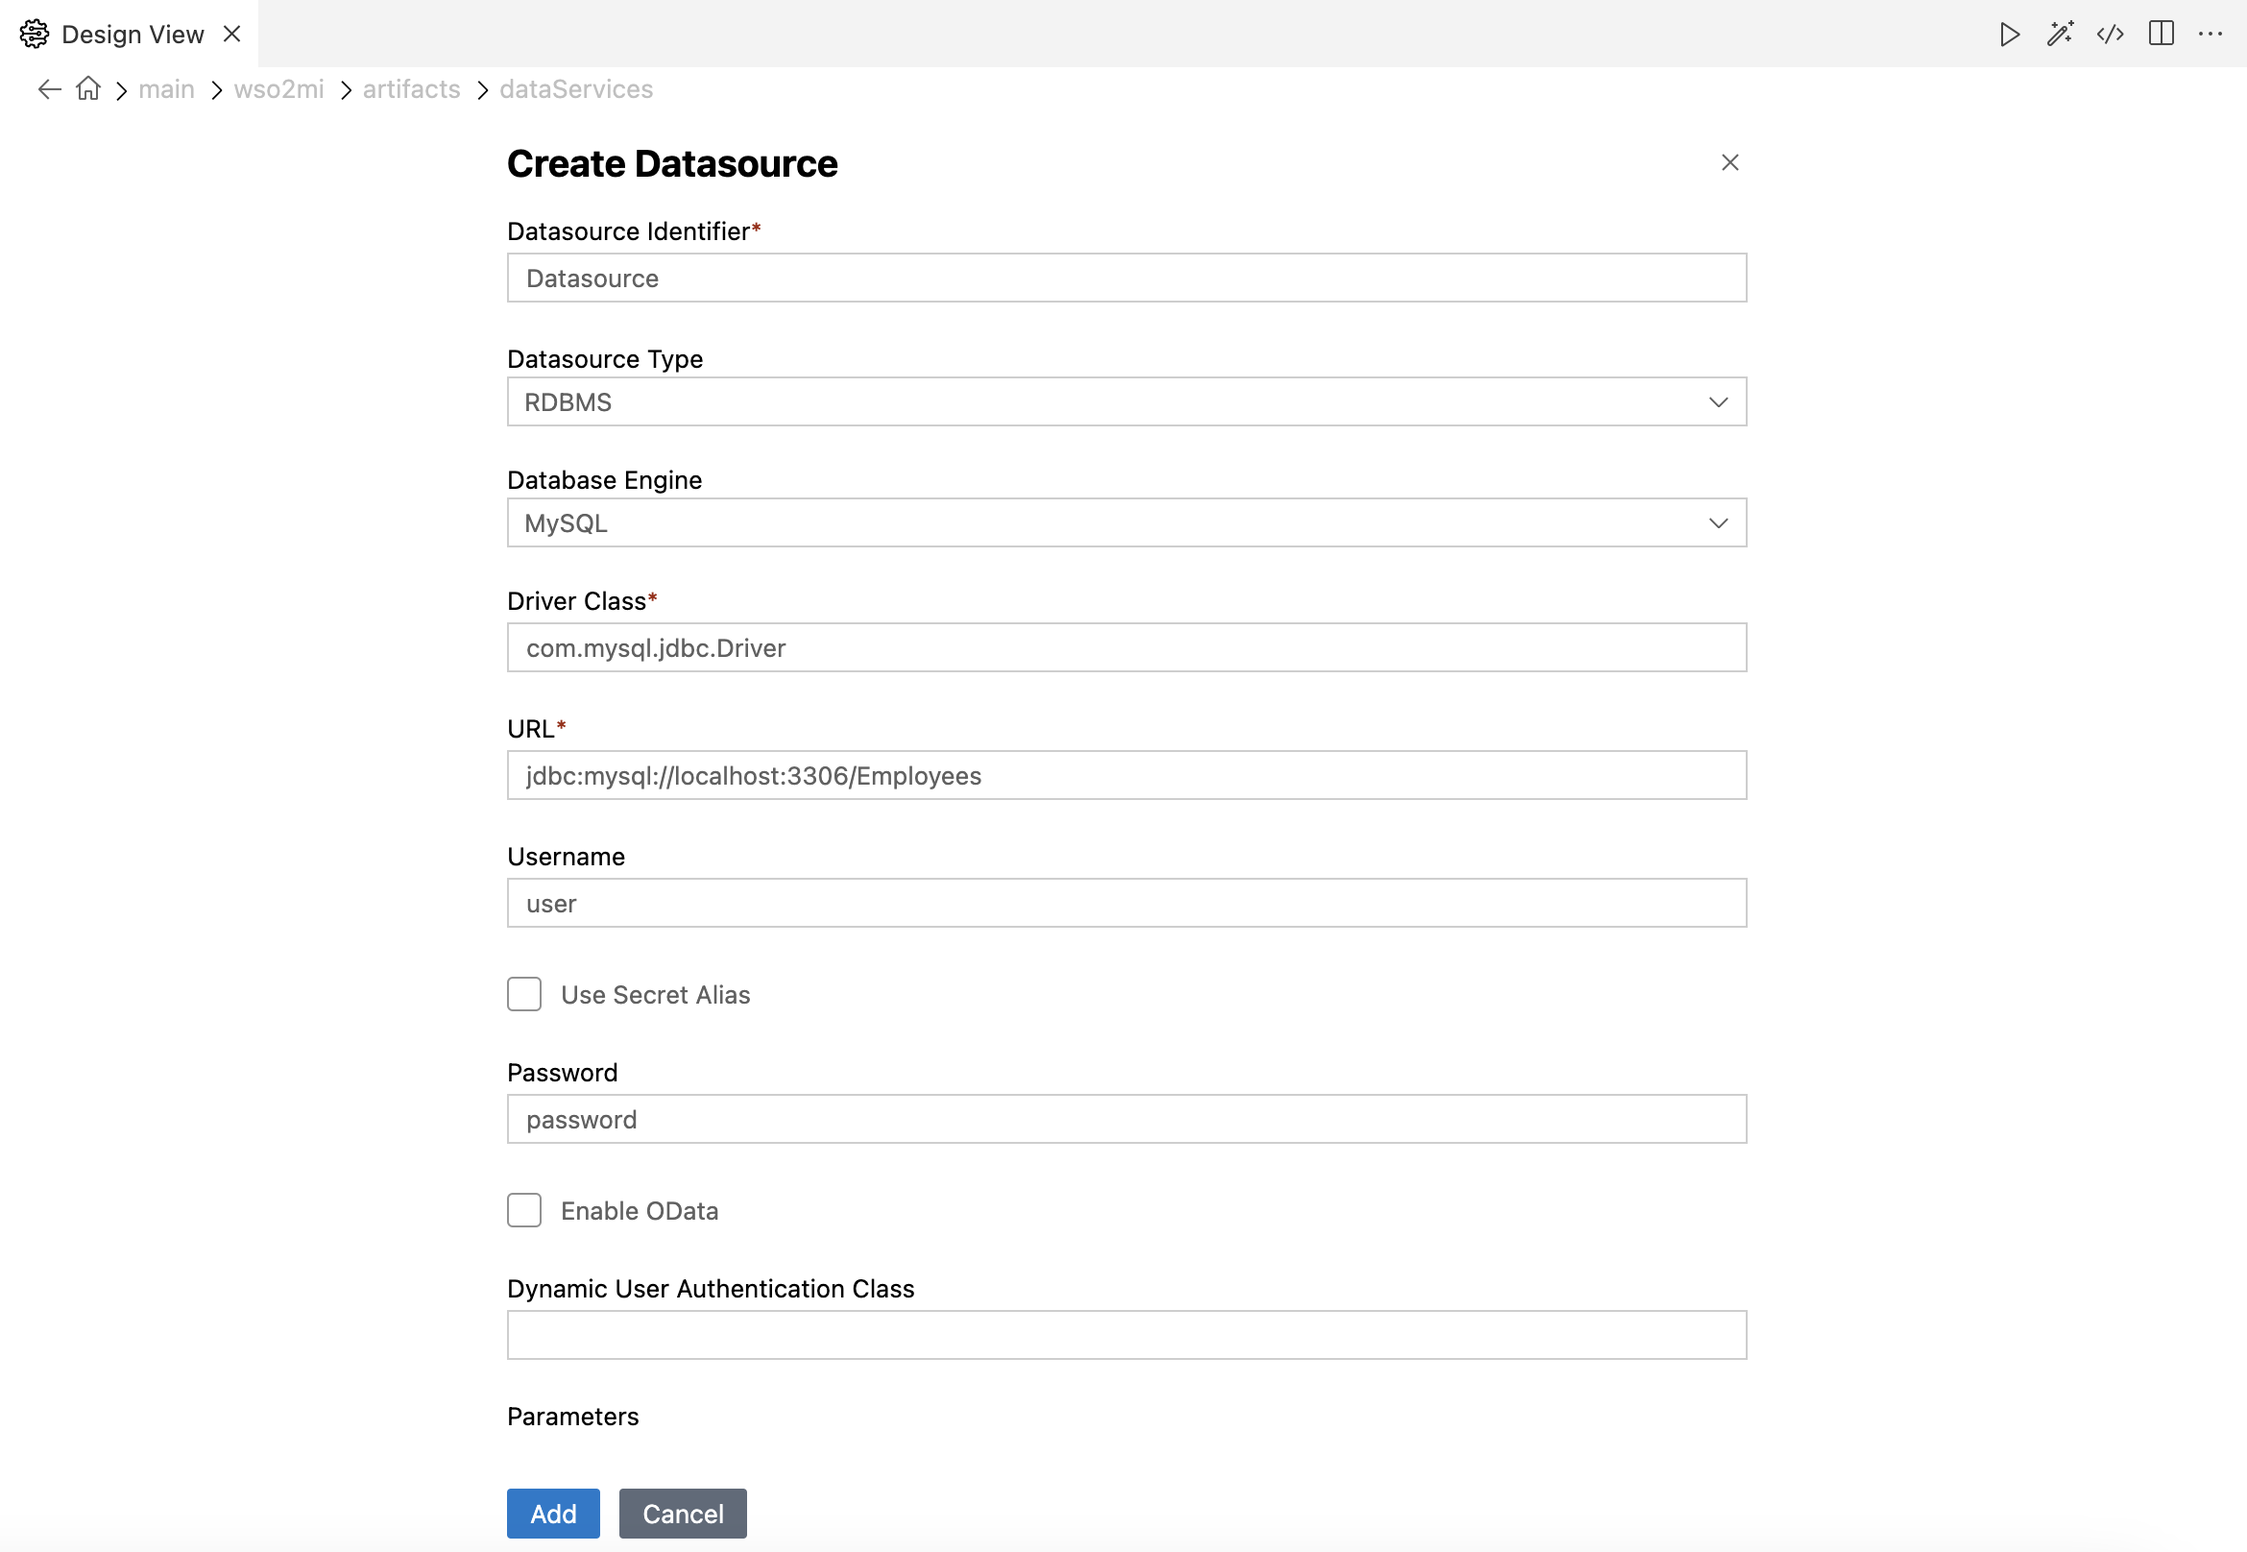
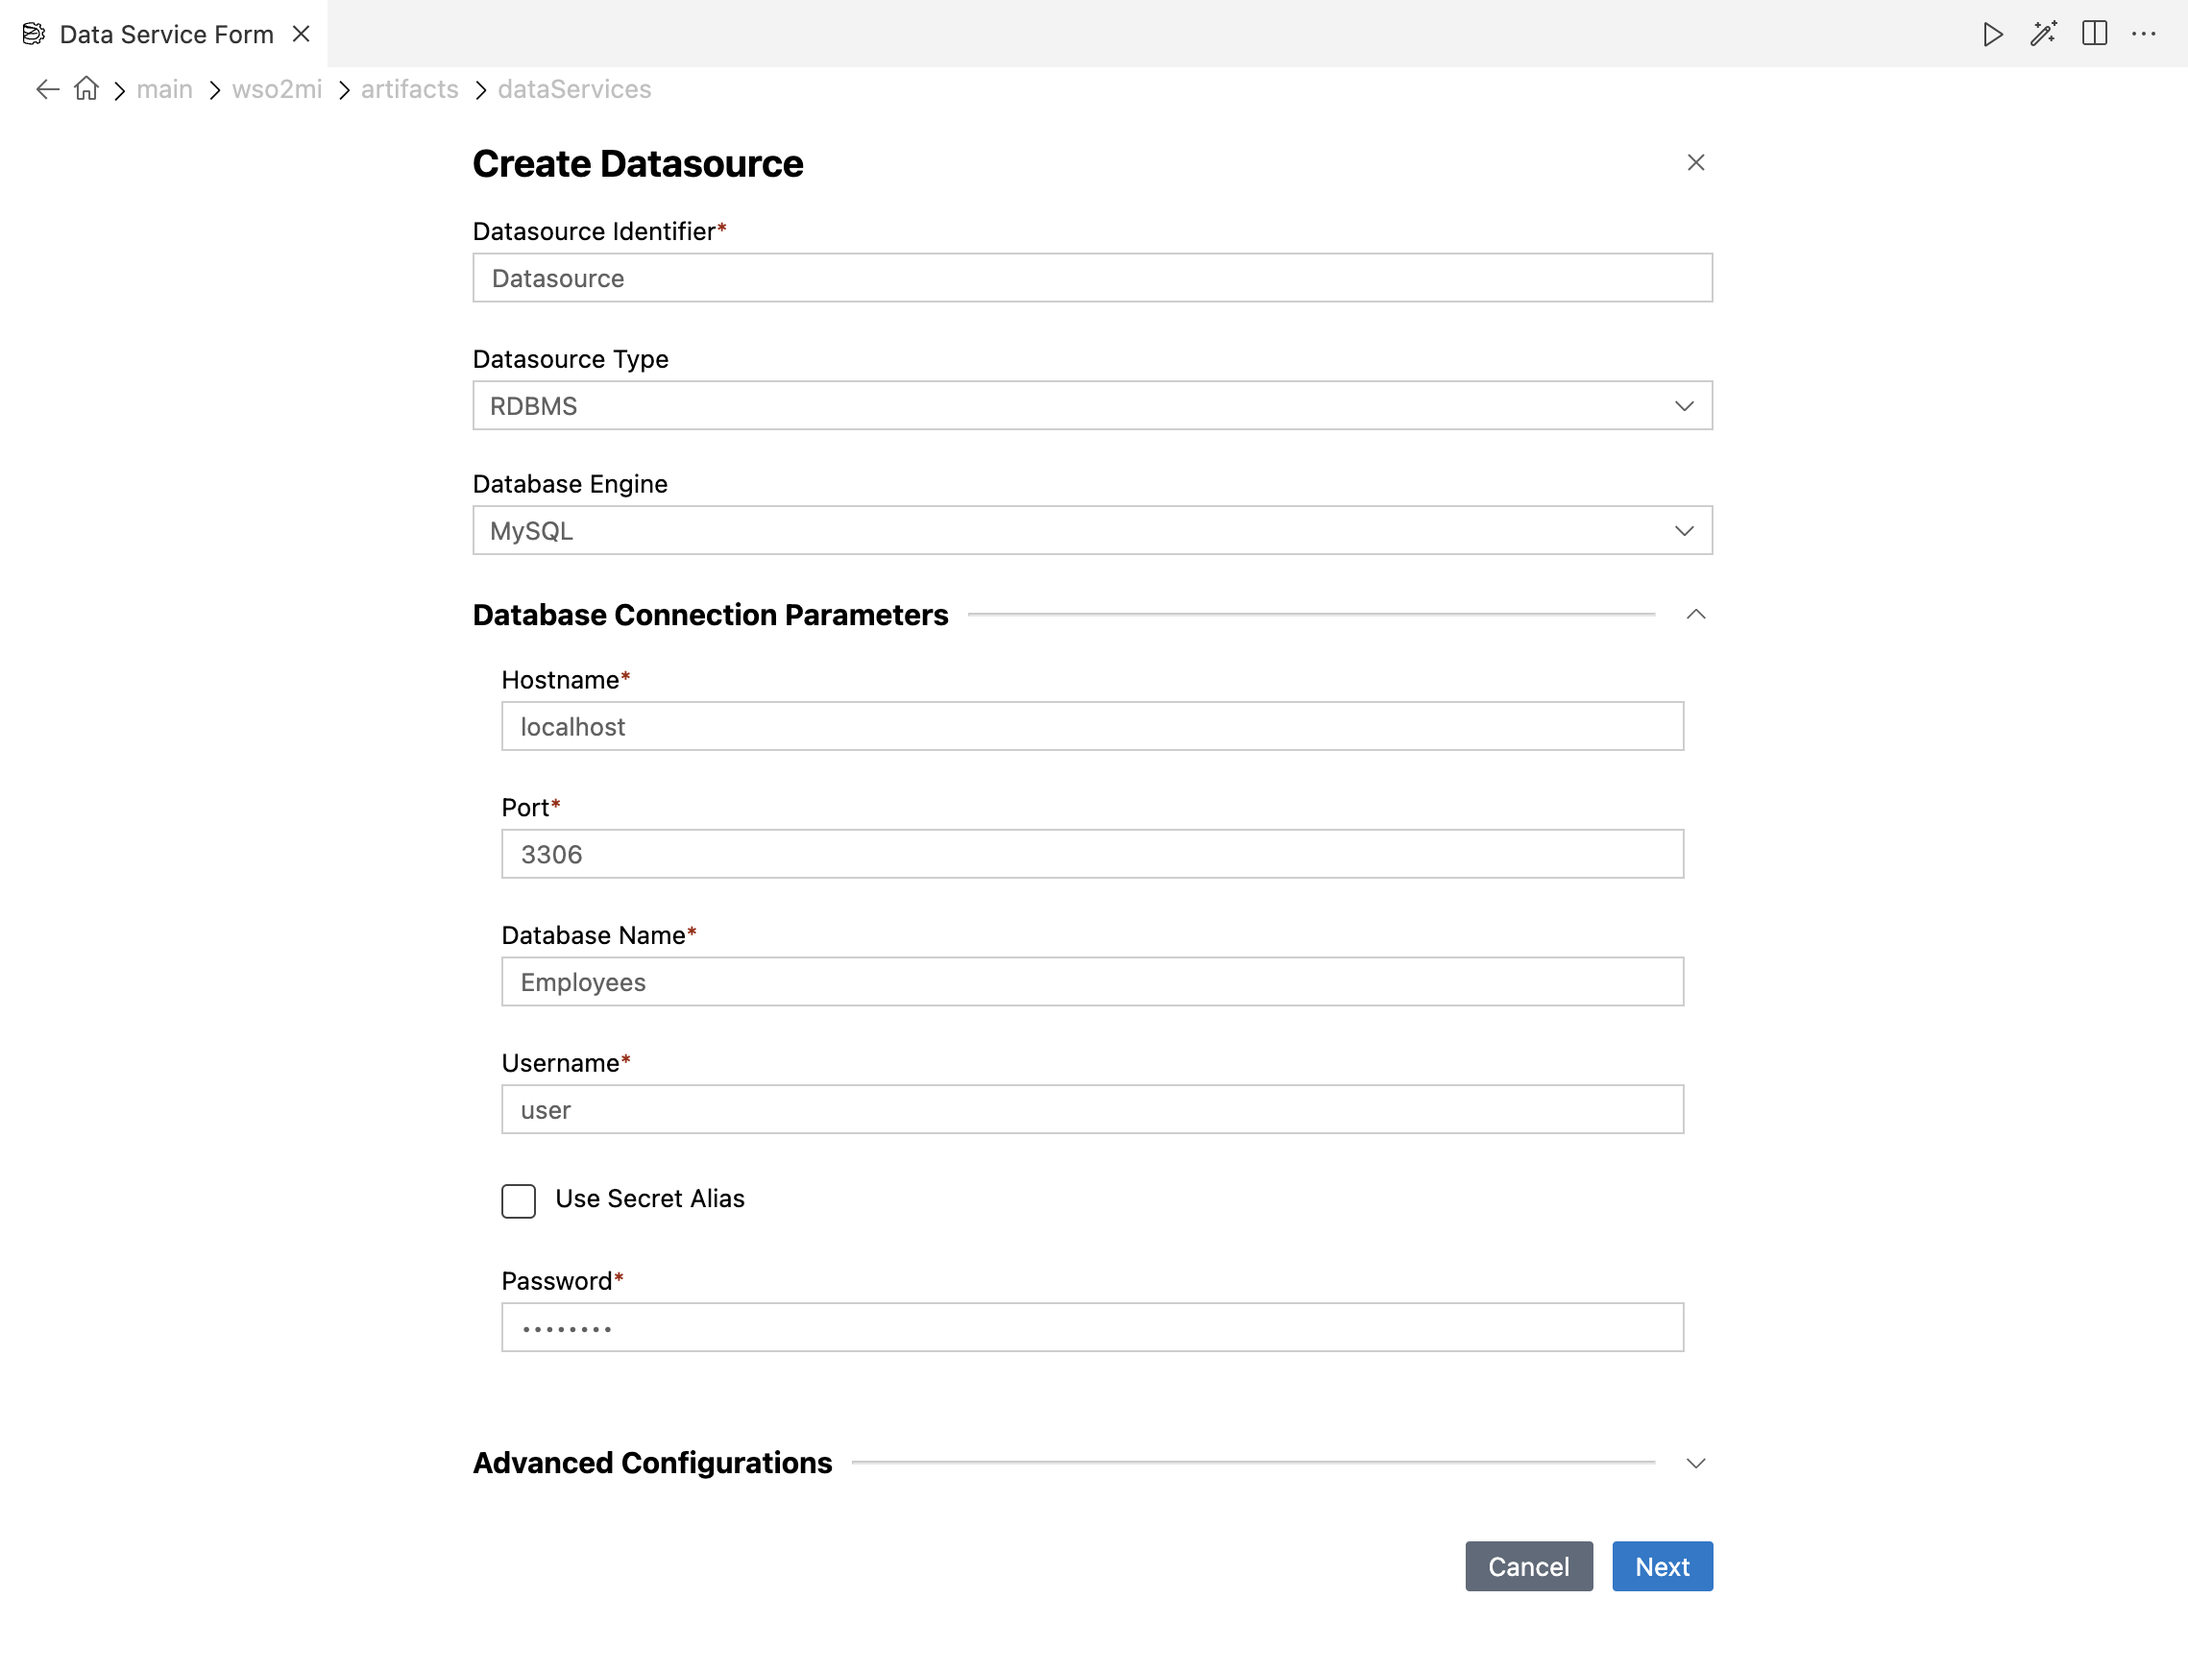
update sending-a-simple-message-to-a-datasource.md

diff --git a/en/docs/learn/integration-tutorials/sending-a-simple-message-to-a-datasource.md b/en/docs/learn/integration-tutorials/sending-a-simple-message-to-a-datasource.md
@@ -2,10 +2,10 @@
 
 ## What you'll build
 
-A **data service** provides a web service interface to access data that is stored in various datasources. The following sections describe how you can use Micro Integrator Extension for Visual Studio Code (MI for VS Code) to work with data services' artifacts. 
+A **data service** provides a web service interface to access data that is stored in various data sources. The following sections describe how you can use Micro Integrator Extension for Visual Studio Code (MI for VS Code) to work with data services' artifacts. 
 
 !!! Tip
-    Note that this feature is currently supported in Micro Integrator Extension for Visual Studio Code (MI for VS Code) for relational datasources and CSV files.
+    Note that this feature is currently supported in Micro Integrator Extension for Visual Studio Code (MI for VS Code) for relational data sources and CSV files.
 
 ## Let's get started!
 
@@ -13,9 +13,10 @@ A **data service** provides a web service interface to access data that is stor
 
 {!includes/setting-up-workspace-for-mi-for-vscode.md!}
 
-- **MySQL server:** Follow the below steps to set up MySQL server.
+- **MySQL server:** Follow the steps below to set up the MySQL server.
     1. Install the MySQL server.
-    2. Download the JDBC driver for MySQL from [here](http://dev.mysql.com/downloads/connector/j/). You will need this when you configure the MySQL server with the Micro Integrator.
+    2. Connect to the MySQL server using the MySQL client. 
+    2. Download the JDBC driver for MySQL from [here](http://dev.mysql.com/downloads/connector/j/). Ensure that you download the JDBC driver version that matches your MySQL server version. You will need this when you configure the MySQL server with the Micro Integrator.
         
     3. Create a database named `Employees`.
 
@@ -56,15 +57,9 @@ Follow the steps given below to create a new data service.
 
 #### Create a data service with a data source
 
-1.  Navigate to the **MI Project Explorer** > **Data Services**.
-   
-   <a href="{{base_path}}/assets/img/learn/tutorials/data-service/create-new-data-source.png"><img src="{{base_path}}/assets/img/learn/tutorials/data-service/create-new-data-source.png" width="30%"></a>
+1. Navigate to the **MI Project Explorer** > **Add artifact** > **Data Services**.
 
-2.  Hover over **Data Services** and click the **+** icon that appears.
-   
-   <a href="{{base_path}}/assets/img/learn/tutorials/data-service/add-data-source.png"><img src="{{base_path}}/assets/img/learn/tutorials/data-service/add-data-source.png" width="30%"></a>
-
-3.  Enter a name for the data service:
+2. Enter a name for the data service:
 
     <table>
         <tr>
@@ -79,66 +74,77 @@ Follow the steps given below to create a new data service.
     </tbody>
     </table>
 
-4. Click **Add Datasource**.
+3. Click **Add Datasource**.
    
-<a href="{{base_path}}/assets/img/learn/tutorials/data-service/create-new-dataservice.png"><img src="{{base_path}}/assets/img/learn/tutorials/data-service/create-new-dataservice.png" width="80%"></a>
+    <a href="{{base_path}}/assets/img/learn/tutorials/data-service/create-new-dataservice.png"><img src="{{base_path}}/assets/img/learn/tutorials/data-service/create-new-dataservice.png" width="80%"></a>
     
-1. To create the datasource connection specify the following values to create the new datasource:
+4. To create the data source connection specify the following values to create the new data source:
 
     <table>
-    <caption>Datasource Properties</caption>
     <tr>
         <th>Property</th>
         <th>Value</th>
     </tr>
     <tr>
-        <td>Datasource ID</td>
-        <td>Datasource</td>
+        <td>Datasource Identifier</td>
+        <td><code>Datasource</code></td>
     </tr>
     <tr>
         <td>Datasource Type</td>
-        <td>RDBMS</td>
-    </tr>
-    <tr>
-        <td>Datasource Type (Default/External)</td>
-        <td>Leave <strong>Default</strong> selected.</td>
+        <td><code>RDBMS</code></td>
     </tr>
     <tr>
         <td>Database Engine</td>
-        <td>MySQL</td>
+        <td><code>MySQL</code></td>
     </tr>
     <tr>
-        <td>Driver Class</td>
-        <td>com.mysql.jdbc.Driver</td>
+        <td>Hostname</td>
+        <td><code>localhost</code></td>
     </tr>
     <tr>
-        <td>URL</td>
-        <td>jdbc:mysql://localhost:3306/Employees</td>
+        <td>Port</td>
+        <td><code>3306</code></td>
     </tr>
     <tr>
-        <td>User Name</td>
-        <td>user</td>
+        <td>Database Name</td>
+        <td><code>Employees</code></td>
+    </tr>
+    <tr>
+        <td>Username</td>
+        <td><code>user</code></td>
     </tr>
     <tr>
         <td>Password</td>
-        <td>password</td>
+        <td><code>password</code></td>
+    </tr>
+    <tr>
+        <td>Driver Class</td>
+        <td><code>com.mysql.jdbc.Driver</code></td>
     </tr>
 </table>
 
-<a href="{{base_path}}/assets/img/learn/tutorials/data-service/datasource-form.png"><img src="{{base_path}}/assets/img/learn/tutorials/data-service/datasource-form.png" width="80%"></a>
+    <a href="{{base_path}}/assets/img/learn/tutorials/data-service/datasource-form.png"><img src="{{base_path}}/assets/img/learn/tutorials/data-service/datasource-form.png" width="80%"></a>
 
-1.  Click **Add**.
-   
-2.  Click **Create** to create a data service with datasource.
+5. Click **Next**. 
+
+6. You will be directed to the **Select Database Driver** window to choose a driver. Browse and select the driver file, such as a JAR file. For example: `/Users/chathurangaj/Downloads/mysql-connector-j-8.3.0/mysql-connector-j-8.3.0.jar`.
+
+7. Click **Next** to complete creating the data source.
+
+8. You will then see the **Test Connection** form, where you can test the connection to the data source using the provided username and password.
+
+    <a href="{{base_path}}/assets/img/learn/tutorials/data-service/datasource-test-connection   .png"><img src="{{base_path}}/assets/img/learn/tutorials/data-service/datasource-test-connection.png" width="80%"></a>
+
+9. Click **Test Connection** to verify the connection. A success or failure message will appear.
+
+10. Once the connection is successful, click **Create** to finalize the data source creation.
 
 #### Create a resource
 
 Now, let's create a REST resource that can be used to invoke the query.
 
-1. Click new **Data Service** created in the previous step.
+1. Click the new **Data Service** created in the previous step either from the side panel or from the overview page.
 
-    <a href="{{base_path}}/assets/img/learn/tutorials/data-service/new-dataservice.png"><img src="{{base_path}}/assets/img/learn/tutorials/data-service/new-dataservice.png" width="80%"></a>
-   
 2. Click **+ Resources**. 
 
     <a href="{{base_path}}/assets/img/learn/tutorials/data-service/add-resource.png"><img src="{{base_path}}/assets/img/learn/tutorials/data-service/add-resource.png" width="80%"></a>
@@ -165,13 +171,12 @@ Now, let's create a REST resource that can be used to invoke the query.
 4. Click **Add**.
 
 !!!	tip
-    Alternatively, you can generate a data service from a datasource. For more information, refer to [Generate Data Services]({{base_path}}/develop/creating-artifacts/data-services/creating-data-services/#generate-data-service-from-a-datasource).
+    Alternatively, you can generate a data service from a data source. For more information, refer to [Generate Data Services]({{base_path}}/develop/creating-artifacts/data-services/creating-data-services/#generate-data-service-from-a-datasource).
 
 
 #### Configure data service
 
-Let's write an SQL query to GET data from the MySQL datasource that you
-configured in the previous step:
+Let's write an SQL query to GET data from the MySQL data source that you configured in the previous step:
 
 1. Click new **Resource** created in the previous step.
 
@@ -343,19 +348,13 @@ configured in the previous step:
  
 14. Click **Submit**.
 
-### Step 3: Configure the Micro Integrator server
-
-To add the MySQL database driver to the server:
-
-1. Copy the MySQL driver JAR (see [Setting up the Workspace](#step-1-set-up-the-workspace)) to `/project-path/deployment/libs`.
-
-If the driver class does not exist in the relevant directory, you will get an exception such as `Cannot load JDBC driver class com.mysql.jdbc.Driver` when the Micro Integrator starts.
-
-### Step 4: Build and run the artifacts
+### Step 3: Build and run the artifacts
 
 {!includes/build-and-run-artifacts.md!}
 
-### Step 5: Test the data service
+If the MySQL driver JAR does not exist in the `/project-path/deployment/libs` directory, you will get an exception such as `Cannot load JDBC driver class com.mysql.jdbc.Driver` when the Micro Integrator starts.
+
+### Step 4: Test the data service
 
 Let's test the use case by sending a simple client request that invokes the service.
 
